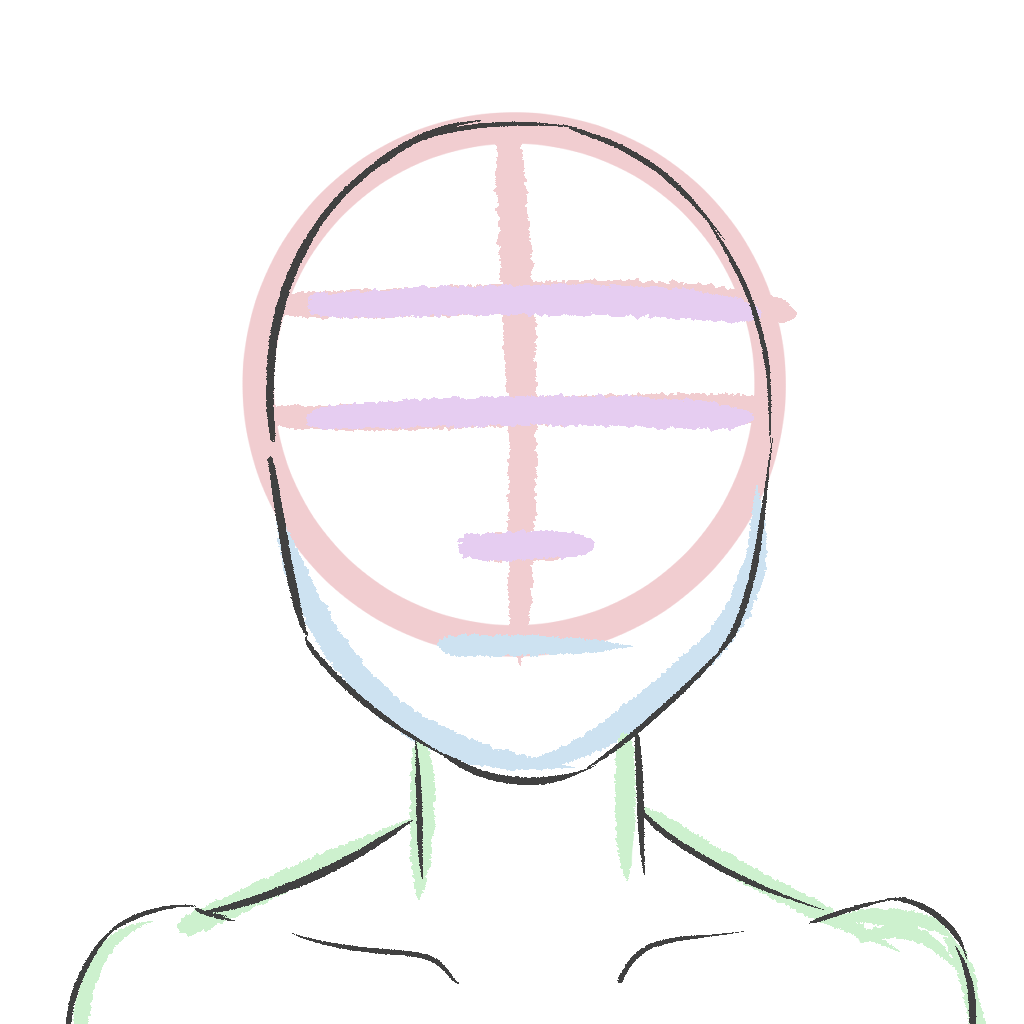
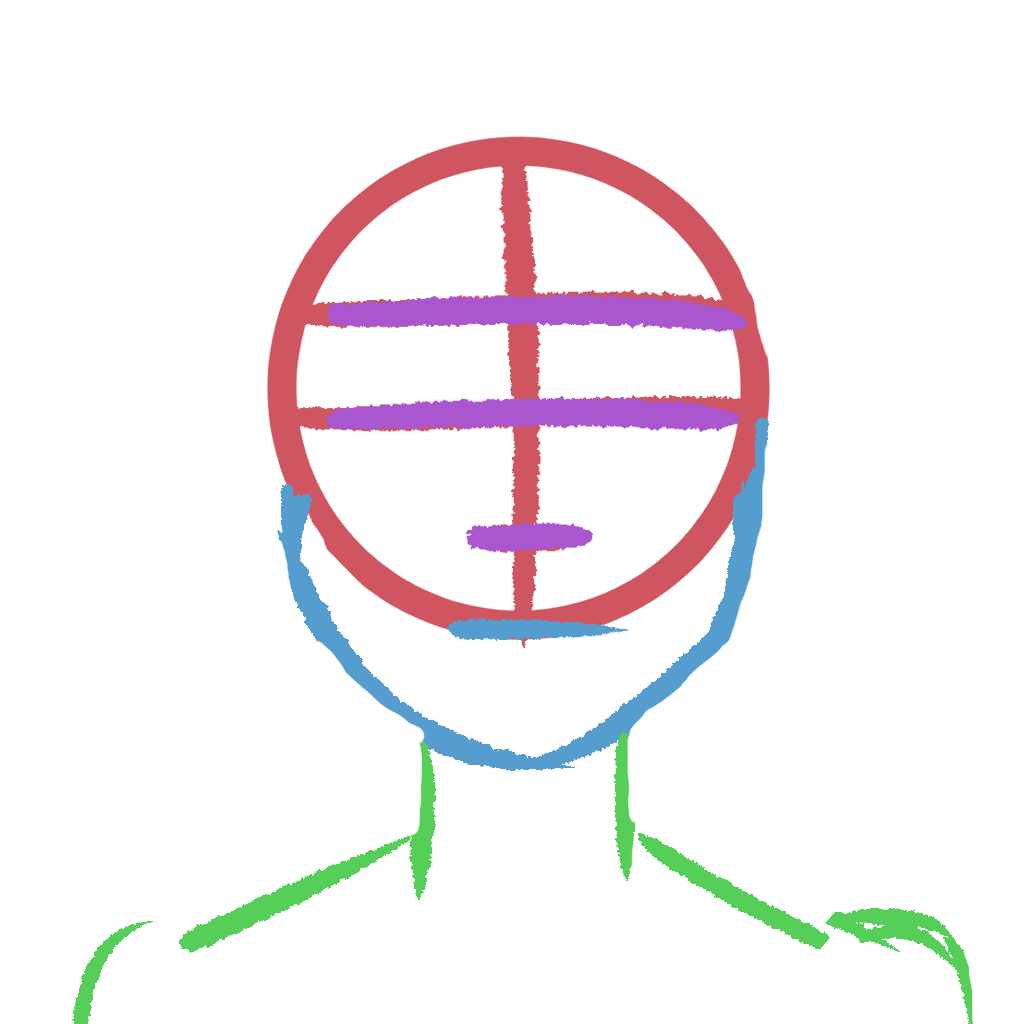
waos funciona

diff --git a/static/js/app.js b/static/js/app.js
@@ -1,0 +1,216 @@
+// static/js/app.js
+document.addEventListener('DOMContentLoaded', () => {
+  const API = '/api/assets/';
+  const renderOrder = ['base','nariz','boca','ojos','barba','ropa','peinado','orejas','cejas'];
+  const container = document.getElementById('preview-canvas');
+  const SIZE = 1024; // resolución lógica para composición (ajusta al export si hace falta)
+
+  // referencias a botones/inputs (de tu template)
+  const categories = ['base','boca','barba','cejas','nariz','ojos','orejas','peinado','ropa'];
+  const selectBtns = {};
+  const colorInputs = {};
+  categories.forEach(c=>{
+    selectBtns[c] = document.getElementById(`select-${c}`);
+    colorInputs[c] = document.getElementById(`color-${c}`);
+  });
+
+  // preview canvas
+  const canvas = document.createElement('canvas');
+  canvas.width = SIZE; canvas.height = SIZE;
+  canvas.style.width = '100%'; canvas.style.height = '100%';
+  container.innerHTML = '';
+  container.appendChild(canvas);
+  const ctx = canvas.getContext('2d');
+
+  // app state: for each category store selected id and urls { id, lineart, fondo }
+  const state = {};
+  categories.forEach(c => state[c] = null);
+  let assets = null;   // full JSON from API
+  let guideURL = null;
+
+  // fetch assets and build UI
+  fetch(API).then(r => r.json()).then(json => {
+    assets = json;
+    guideURL = (json.meta && json.meta.guide) ? json.meta.guide : null;
+
+    // Populate each category: set default selection (first item) and attach dropdown
+    categories.forEach(cat => {
+      const list = (json[cat] || []);
+      const btn = selectBtns[cat];
+      const colorInp = colorInputs[cat];
+
+      if(!btn) return;
+
+      if(list.length){
+        // pick first variant as default
+        state[cat] = list[0];
+        btn.textContent = `${displayName(list[0])} ▾`;
+      } else {
+        state[cat] = null;
+        btn.textContent = `— ▾`;
+      }
+
+      // click opens thumbnail dropdown
+      btn.addEventListener('click', (ev) => {
+        ev.preventDefault();
+        closeAllDropdowns();
+        const box = document.createElement('div');
+        box.className = 'ctrl-thumbs active';
+        // build rows
+        (list.length ? list : []).forEach(item => {
+          const row = document.createElement('div');
+          row.className = 'ctrl-thumb-row';
+          const img = document.createElement('img');
+          // prefer lineart for thumb; fallback to fondo if missing
+          img.src = item.lineart || item.fondo || '';
+          img.alt = item.name || item.id || '';
+          const label = document.createElement('div');
+          label.className = 'thumb-label';
+          label.textContent = displayName(item);
+          row.appendChild(img);
+          row.appendChild(label);
+          row.addEventListener('click', () => {
+            state[cat] = item;
+            btn.textContent = `${displayName(item)} ▾`;
+            box.remove();
+            renderPreview();
+          });
+          box.appendChild(row);
+        });
+
+        document.body.appendChild(box);
+        // position under button, simple placement (improve if needed)
+        const rect = btn.getBoundingClientRect();
+        box.style.left = `${Math.max(8, rect.left)}px`;
+        box.style.top = `${rect.bottom + window.scrollY + 6}px`;
+      });
+
+      // color input change -> immediate render
+      if(colorInp) colorInp.addEventListener('input', () => renderPreview());
+    });
+
+    // global click to close dropdowns
+    document.addEventListener('click', (e) => {
+      if(!e.target.closest('.ctrl-select') && !e.target.closest('.ctrl-thumbs')) closeAllDropdowns();
+    });
+
+    // initial render
+    renderPreview();
+  }).catch(err => {
+    console.error('Error fetching assets', err);
+  });
+
+  // helpers
+  function displayName(item){
+    if(!item) return '—';
+    return item.name || (item.lineart ? item.lineart.split('/').pop() : item.fondo ? item.fondo.split('/').pop() : 'item');
+  }
+
+  function closeAllDropdowns(){
+    document.querySelectorAll('.ctrl-thumbs.active').forEach(n => n.remove());
+  }
+
+  // renderPreview: draw guide, then for each category in renderOrder draw fondo (tinted) then lineart
+  async function renderPreview(){
+    // clear
+    ctx.clearRect(0,0,SIZE,SIZE);
+
+    // draw guide first if present
+    if(guideURL){
+      await drawImageSafe(guideURL);
+    }
+
+    // iterate renderOrder (de abajo hacia arriba)
+    for(const layer of renderOrder){
+      const sel = state[layer];
+      if(!sel) continue;
+
+      // 1) draw fondo if exists (apply tint if color input present)
+      const fondoURL = sel.fondo || null;
+      if(fondoURL){
+        await drawImageWithTintIfNeeded(fondoURL, colorInputs[layer]);
+      }
+
+      // 2) draw selected lineart (on top)
+      const lineartURL = sel.lineart || null;
+      if(lineartURL){
+        await drawImageSafe(lineartURL);
+      }
+    }
+  }
+
+  // draw image safely (returns a Promise that resolves when done or on error)
+  function drawImageSafe(src){
+    return new Promise(res => {
+      if(!src){ res(); return; }
+      const img = new Image();
+      img.crossOrigin = 'anonymous';
+      img.onload = () => {
+        ctx.drawImage(img, 0, 0, SIZE, SIZE);
+        res();
+      };
+      img.onerror = () => { console.warn('img load error', src); res(); };
+      img.src = src;
+    });
+  }
+
+  // draw image then tint it if color input exists (applies tint only to the image area)
+  function drawImageWithTintIfNeeded(src, colorInput){
+    return new Promise(res => {
+      const img = new Image();
+      img.crossOrigin = 'anonymous';
+      img.onload = () => {
+        if(colorInput && colorInput.value){
+          // draw to temp canvas, tint and composite onto main ctx
+          const tmp = document.createElement('canvas');
+          tmp.width = SIZE; tmp.height = SIZE;
+          const tctx = tmp.getContext('2d');
+          tctx.clearRect(0,0,SIZE,SIZE);
+          tctx.drawImage(img, 0, 0, SIZE, SIZE);
+          tctx.globalCompositeOperation = 'source-atop';
+          tctx.fillStyle = colorInput.value;
+          tctx.fillRect(0,0,SIZE,SIZE);
+          tctx.globalCompositeOperation = 'source-over';
+          ctx.drawImage(tmp, 0, 0, SIZE, SIZE);
+          res();
+        } else {
+          ctx.drawImage(img, 0, 0, SIZE, SIZE);
+          res();
+        }
+      };
+      img.onerror = () => { console.warn('fondo load error', src); res(); };
+      img.src = src;
+    });
+  }
+
+  // Buttons: preview/update and reset
+  const btnPreview = document.getElementById('btn-preview');
+  const btnReset = document.getElementById('btn-reset');
+  if(btnPreview) btnPreview.addEventListener('click', () => renderPreview());
+  if(btnReset) btnReset.addEventListener('click', () => {
+    // reset to first item per category
+    if(!assets) return;
+    categories.forEach(cat => {
+      const list = (assets[cat] || []);
+      const btn = selectBtns[cat];
+      state[cat] = list.length ? list[0] : null;
+      if(btn) btn.textContent = state[cat] ? `${displayName(state[cat])} ▾` : '— ▾';
+      const color = colorInputs[cat];
+      if(color) color.value = '#ffffff';
+    });
+    renderPreview();
+  });
+
+  // Export helpers (client-side basic download for current canvas)
+  window.downloadPreviewPNG = function(filename='xpresarte.png', size=512){
+    // create export canvas at desired resolution
+    const out = document.createElement('canvas');
+    out.width = size; out.height = size;
+    const outCtx = out.getContext('2d');
+    // draw current canvas scaled
+    outCtx.drawImage(canvas, 0, 0, size, size);
+    const url = out.toDataURL('image/png');
+    const a = document.createElement('a');
+    a.href = url; a.download = filename; document.body.appendChild(a); a.click(); a.remove();
+  };
+});

diff --git a/templates/home.html b/templates/home.html
@@ -33,55 +33,55 @@
           <div class="ctrl-cell">
             <label class="ctrl-label" for="select-base">Base</label>
             <button class="ctrl-select" id="select-base" data-field="base">base-01.png <span class="caret">▾</span></button>
-            <input class="ctrl-color" id="color-base" type="color" value="#ffffff" title="Color base">
+            <input class="ctrl-color" id="color-base" type="color" value="#f2f2f2" title="Color base">
           </div>
 
           <div class="ctrl-cell">
             <label class="ctrl-label" for="select-boca">Boca</label>
             <button class="ctrl-select" id="select-boca" data-field="boca">boca-01.png <span class="caret">▾</span></button>
-            <input class="ctrl-color" id="color-boca" type="color" value="#ffffff" title="Color boca">
+            <input class="ctrl-color" id="color-boca" type="color" value="#e6e6e6" title="Color boca">
           </div>
 
           <div class="ctrl-cell">
             <label class="ctrl-label" for="select-barba">Barba</label>
             <button class="ctrl-select" id="select-barba" data-field="barba">barba-01.png <span class="caret">▾</span></button>
-            <input class="ctrl-color" id="color-barba" type="color" value="#9A9A9A" title="Color barba">
+            <input class="ctrl-color" id="color-barba" type="color" value="#8a8a8a" title="Color barba">
           </div>
 
           <div class="ctrl-cell">
             <label class="ctrl-label" for="select-cejas">Cejas</label>
             <button class="ctrl-select" id="select-cejas" data-field="cejas">cejas-01.png <span class="caret">▾</span></button>
-            <input class="ctrl-color" id="color-cejas" type="color" value="#1f1f1f" title="Color cejas">
+            <input class="ctrl-color" id="color-cejas" type="color" value="#2f2f2f" title="Color cejas">
           </div>
 
           <div class="ctrl-cell">
             <label class="ctrl-label" for="select-nariz">Nariz</label>
             <button class="ctrl-select" id="select-nariz" data-field="nariz">nariz-01.png <span class="caret">▾</span></button>
-            <input class="ctrl-color" id="color-nariz" type="color" value="#ffffff" title="Color nariz">
+            <input class="ctrl-color" id="color-nariz" type="color" value="#f2f2f2" title="Color nariz">
           </div>
 
           <div class="ctrl-cell">
             <label class="ctrl-label" for="select-ojos">Ojos</label>
             <button class="ctrl-select" id="select-ojos" data-field="ojos">ojos-01.png <span class="caret">▾</span></button>
-            <input class="ctrl-color" id="color-iris" type="color" value="#2b2b2b" title="Color iris">
+            <input class="ctrl-color" id="color-ojos" type="color" value="#565352" title="Color ojos">
           </div>
 
           <div class="ctrl-cell">
             <label class="ctrl-label" for="select-orejas">Orejas</label>
             <button class="ctrl-select" id="select-orejas" data-field="orejas">orejas-01.png <span class="caret">▾</span></button>
-            <input class="ctrl-color" id="color-orejas" type="color" value="#ffffff" title="Color orejas">
+            <input class="ctrl-color" id="color-orejas" type="color" value="#f2f2f2" title="Color orejas">
           </div>
 
           <div class="ctrl-cell">
             <label class="ctrl-label" for="select-peinado">Peinado</label>
             <button class="ctrl-select" id="select-peinado" data-field="peinado">peinado-01.png <span class="caret">▾</span></button>
-            <input class="ctrl-color" id="color-peinado" type="color" value="#f77f00" title="Color peinado">
+            <input class="ctrl-color" id="color-peinado" type="color" value="#bdbdbd" title="Color peinado">
           </div>
 
           <div class="ctrl-cell">
             <label class="ctrl-label" for="select-ropa">Ropa</label>
             <button class="ctrl-select" id="select-ropa" data-field="ropa">ropa-01.png <span class="caret">▾</span></button>
-            <input class="ctrl-color" id="color-ropa" type="color" value="#fcbf49" title="Color ropa">
+            <input class="ctrl-color" id="color-ropa" type="color" value="#cfcfcf" title="Color ropa">
           </div>
         </div>
 

diff --git a/templates/base.html b/templates/base.html
@@ -12,7 +12,6 @@
       <ul>
         <li><a href="#bienvenida">Bienvenida</a></li>
         <li><a href="#creador">Creador</a></li>
-        <li><a href="#acciones">Acciones</a></li>
         <li><a href="#proyecto">Proyecto</a></li>
         <li><a href="#equipo">Equipo</a></li>
         <li><a href="#agradecimiento">Agradecimiento</a></li>
